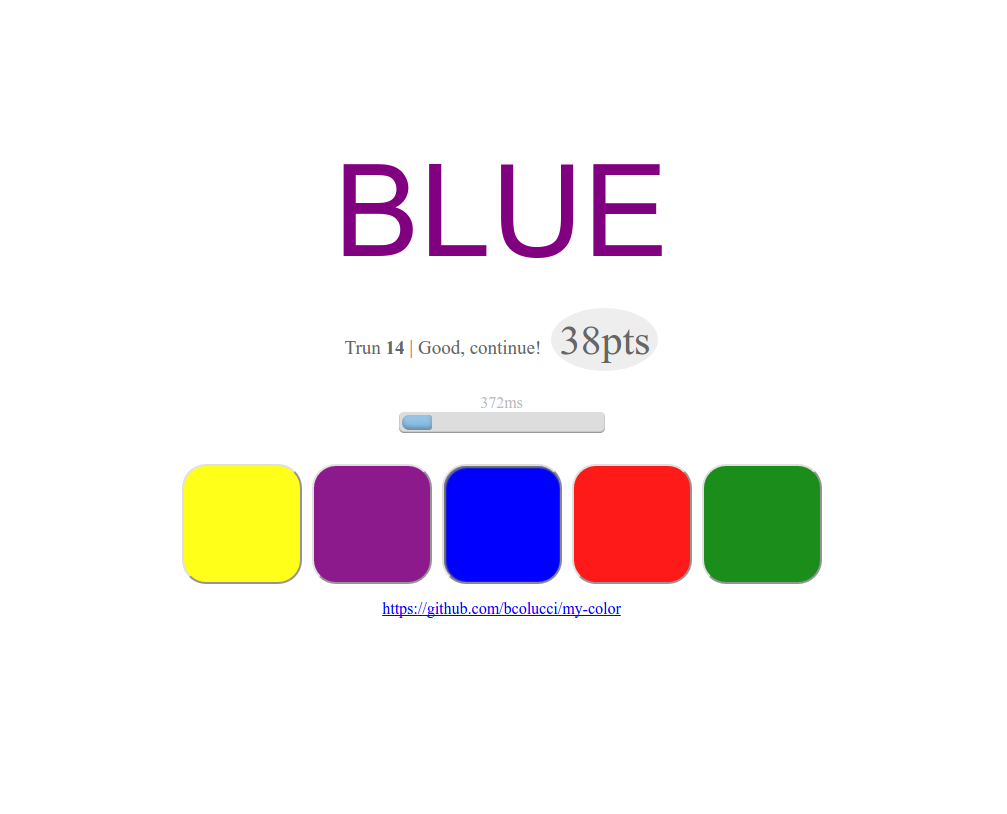
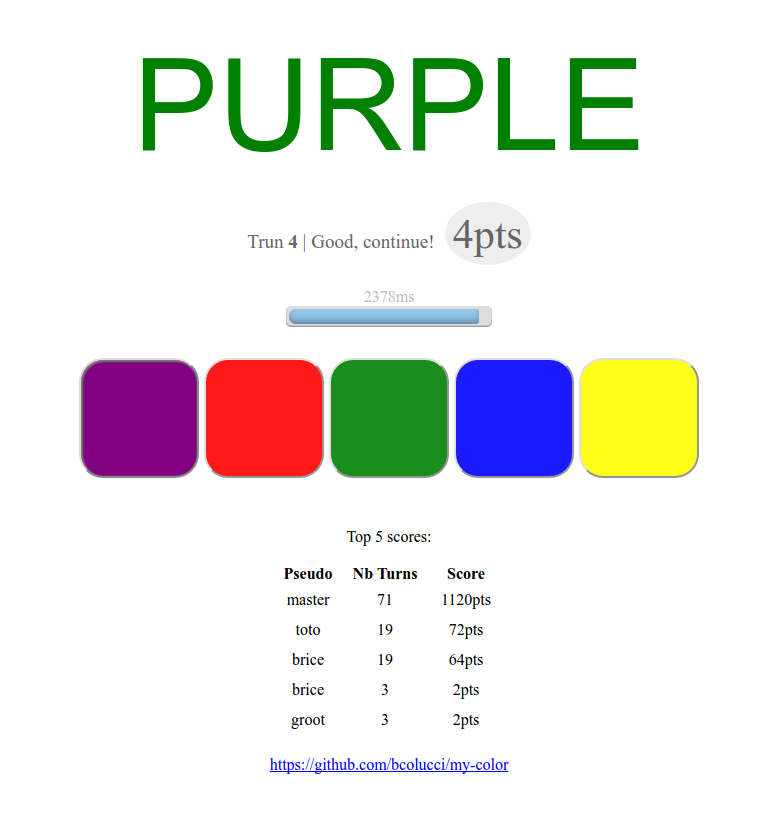
wip

Changed region(s): [[0.092, 0.0614, 0.9195, 0.8907], [0.3372, 0.9214, 0.6437, 0.9521], [0.4904, 0.7985, 0.5211, 0.8292]]

diff --git a/src/components/Footer.js b/src/components/Footer.js
@@ -8,7 +8,7 @@ class Footer extends Component {
 
   render() {
     return (
-      <div>
+      <div id="footer">
         <BestScores/>
         <p><a href="https://github.com/bcolucci/my-color" target="_blank">{GITHUB}</a></p>
       </div>

diff --git a/static/style.css b/static/style.css
@@ -41,9 +41,12 @@ input, button{
   background-color:green;
 }
 
+#footer{
+  margin-top:50px;
+}
+
 #best-scores{
   text-align:center;
-  margin-top:50px;
 }
 
 #best-scores table{
